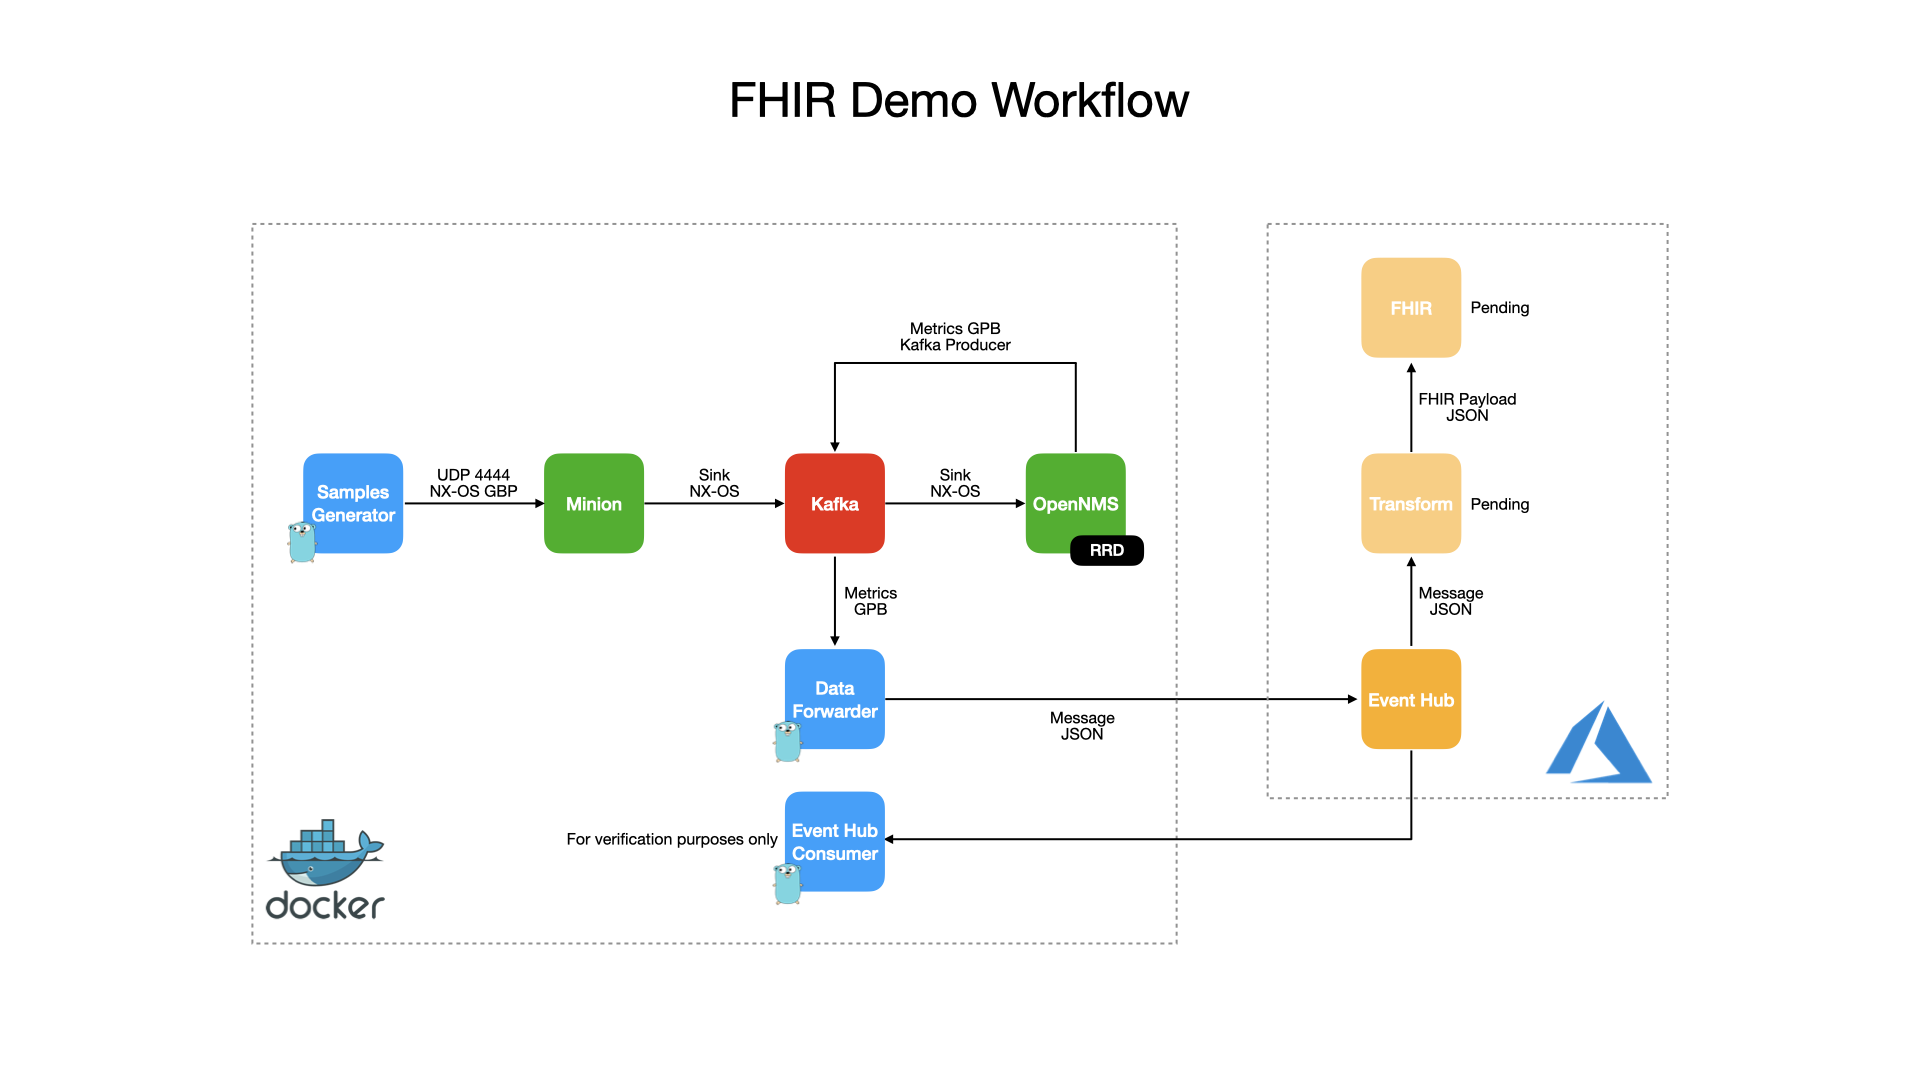
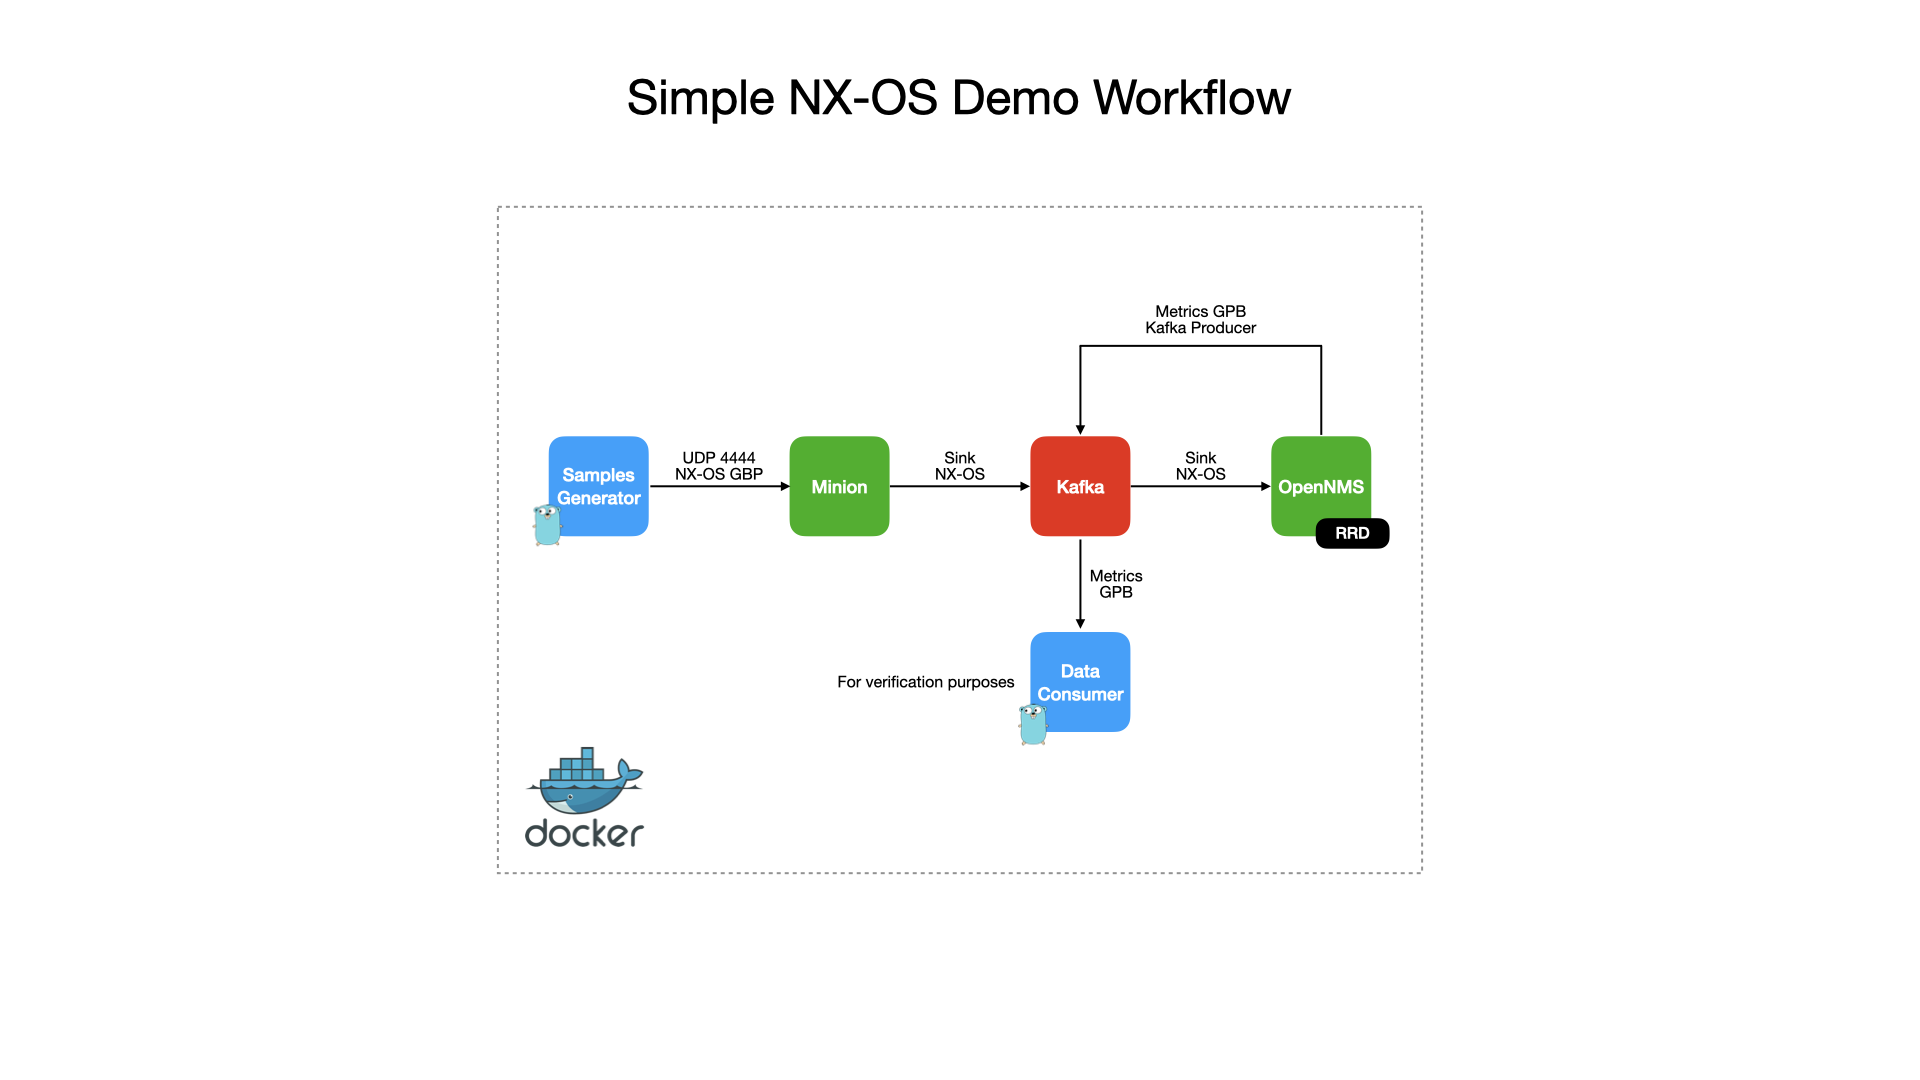
Simplify README and docker-compose for testing purposes

diff --git a/README.md b/README.md
@@ -1,9 +1,7 @@
 OpenNMS and FHIR
 ====
 
-The goal of this project is to have a working lab for testing purposes to geneate fake health metrics and forward it to [Azure API for FHIR](https://azure.microsoft.com/en-us/services/azure-api-for-fhir/) via [Event Hub](https://azure.microsoft.com/en-us/services/event-hubs/), as described in the following repository, used as a reference for the work described here:
-
-https://github.com/microsoft/iomt-fhir
+The goal here is a PoC to verify sample generation via NX-OS prior working with [Azure API for FHIR](https://azure.microsoft.com/en-us/services/azure-api-for-fhir/).
 
 ## Architecture
 
@@ -23,38 +21,13 @@ OpenNMS receives the data via the NX-OS GPB Adapter, and use a simple Groovy Scr
 
 It is crucial to notice this solution assumes the usage of `node-level` variables only. Also, the node-label of the sender (i.e., the one that represents the Sample Generator in OpenNMS) will be used as the `Device ID` for `FHIR`.
 
-Then, the Kafka Producer pushes the Collection Sets to a Kafka Topic. From there, the Event Hub Forwarder takes the data, parse it, extract the desired list of metrics (specified via parameters or environment variables when using Docker), and if the metrics were extracted, it forwards the data to Azure Event Hub using the format suggested on:
-
-https://github.com/microsoft/iomt-fhir/blob/master/docs/Configuration.md 
-
-For example:
-
-```json
-{
-  "Body": {
-    "heartRate": "78",
-    "stepCount": "100",
-    "endDate": "2020-04-29T10:46:01Z",
-    "deviceId": "mock-device-001"
-  },
-  "Properties": {},
-  "SystemProperties": {}
-}
-```
+Then, the Kafka Producer pushes the Collection Sets to a Kafka Topic. From there, a simple receiver parses the data and show it to standard output.
 
 ## Run Test Environment
 
-This lab was designed to run with [Docker](https://docker.io), so make sure you have it installed on your system. I recommend 4 Cores with 8 GB of RAM at least, so make your Linux machine, Docker for Mac or Docker for Windows meet these requirements.
+This lab was designed to run with [Docker](https://docker.io), so make sure you have it installed on your system.
 
-It is assume that an Event Hub instance already exists on Azure, with is a Shared Access Policy with Send capabilities, and you have access a connection string for it which is required by the `eventhub-forwarder` to be able to push the translated `CollectionSets` to Event Hub.
-
-Once you have the connection string, declare an environment variable on your machine called `FORWARDER_EVENT_HUB_CONNECTION_STR` with its value, for example:
-
-```bash
-export FORWARDER_EVENT_HUB_CONNECTION_STR="Endpoint=sb://onmsfhir.servicebus.windows.net/;SharedAccessKeyName=send;SharedAccessKey=XXXXXXX;EntityPath=fhirhub"
-```
-
-Then, you can start the lab using Docker Compose, from the root directory after checking out this repository on your machine:
+You can start the lab using Docker Compose, from the root directory after checking out this repository on your machine:
 
 ```bash
 docker-compose up -d
@@ -84,17 +57,23 @@ rm -f generate-requisition.sh
 
 ## Verify the solution
 
-To make sure the solution works, inside the [eventhub-forwarder](eventhub-forwarder) directory, there is another directory called [consumer](eventhub-forwarder/consumer). There, you can find a small program that connects to Event Hub and read the messages.
-
-This can be executed standalone, or with Docker:
+Verify the output of the forwarder in DEBUG mode to see the messages sent by the Kafka Producer in Event Hub format:
 
 ```bash
-docker run -it --rm \
-  -e EVENT_HUB_CONNECTION_STR="Endpoint=sb://onmsfhir.servicebus.windows.net;SharedAccessKeyName=listen;SharedAccessKey=XXXXX;EntityPath=fhirhub" \
-  agalue/fhir-sample-consumer
+docker-compose logs -f forwarder | grep "Sending message"
 ```
 
-Note that in this case, the connection string must have `Listen` permissions.
+Or,
+
+```bash
+docker logs -f forwarder | grep "Sending message"
+```
+
+You must see messages like this:
+
+```
+2020/05/03 10:45:29 Sending message to Event Hub: {"body":{"deviceId":"mock-device","endDate":"2020-05-03T10:45:29-04:00","heartRate":"72","stepCount":"100"},"properties":{},"systemProperties":{}}
+```
 
 ## Clean up
 
@@ -103,9 +82,3 @@ From the root directory after checking out this repository on your machine:
 ```bash
 docker-compose down -v
 ```
-
-> Make sure the environment variables of the connection strings are set; otherwise the validation and `docker-compose` won't run.
-
-## Pending
-
-At this point, the data is sent to Event Hub, but I haven't been able to test the [transformer files](fhir-mapping) to send data to an FHIR Server.
